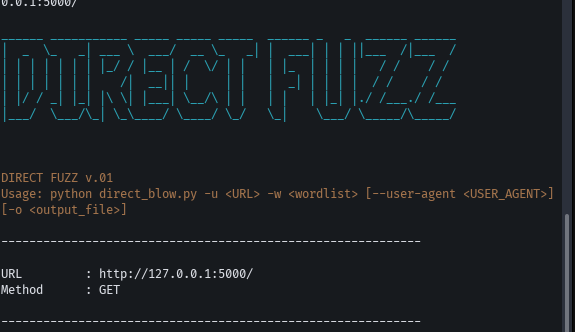
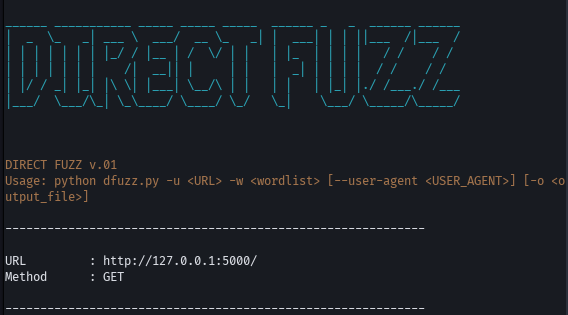
Default wordlist added

diff --git a/dfuzz.py b/dfuzz.py
@@ -51,7 +51,7 @@ ______ ___________ _____ _____ _____  ______ _   _  ______ ______
 |___/  \___/\_| \_\____/ \____/ \_/   \_|    \___/ \_____/\_____/                                                                                                       
     """, 'cyan'))
     print(colored("DIRECT FUZZ v.01", 'yellow'))
-    print(colored("Usage: python direct_blow.py -u <URL> -w <wordlist> [--user-agent <USER_AGENT>] [-o <output_file>]", 'yellow'))
+    print(colored("Usage: python dfuzz.py -u <URL> -w <wordlist> [--user-agent <USER_AGENT>] [-o <output_file>]", 'yellow'))
     print("\n" + "-"*60 + "\n")
     print(colored(f'URL         : {url}'))
     print(colored(f'Method      : GET'))
